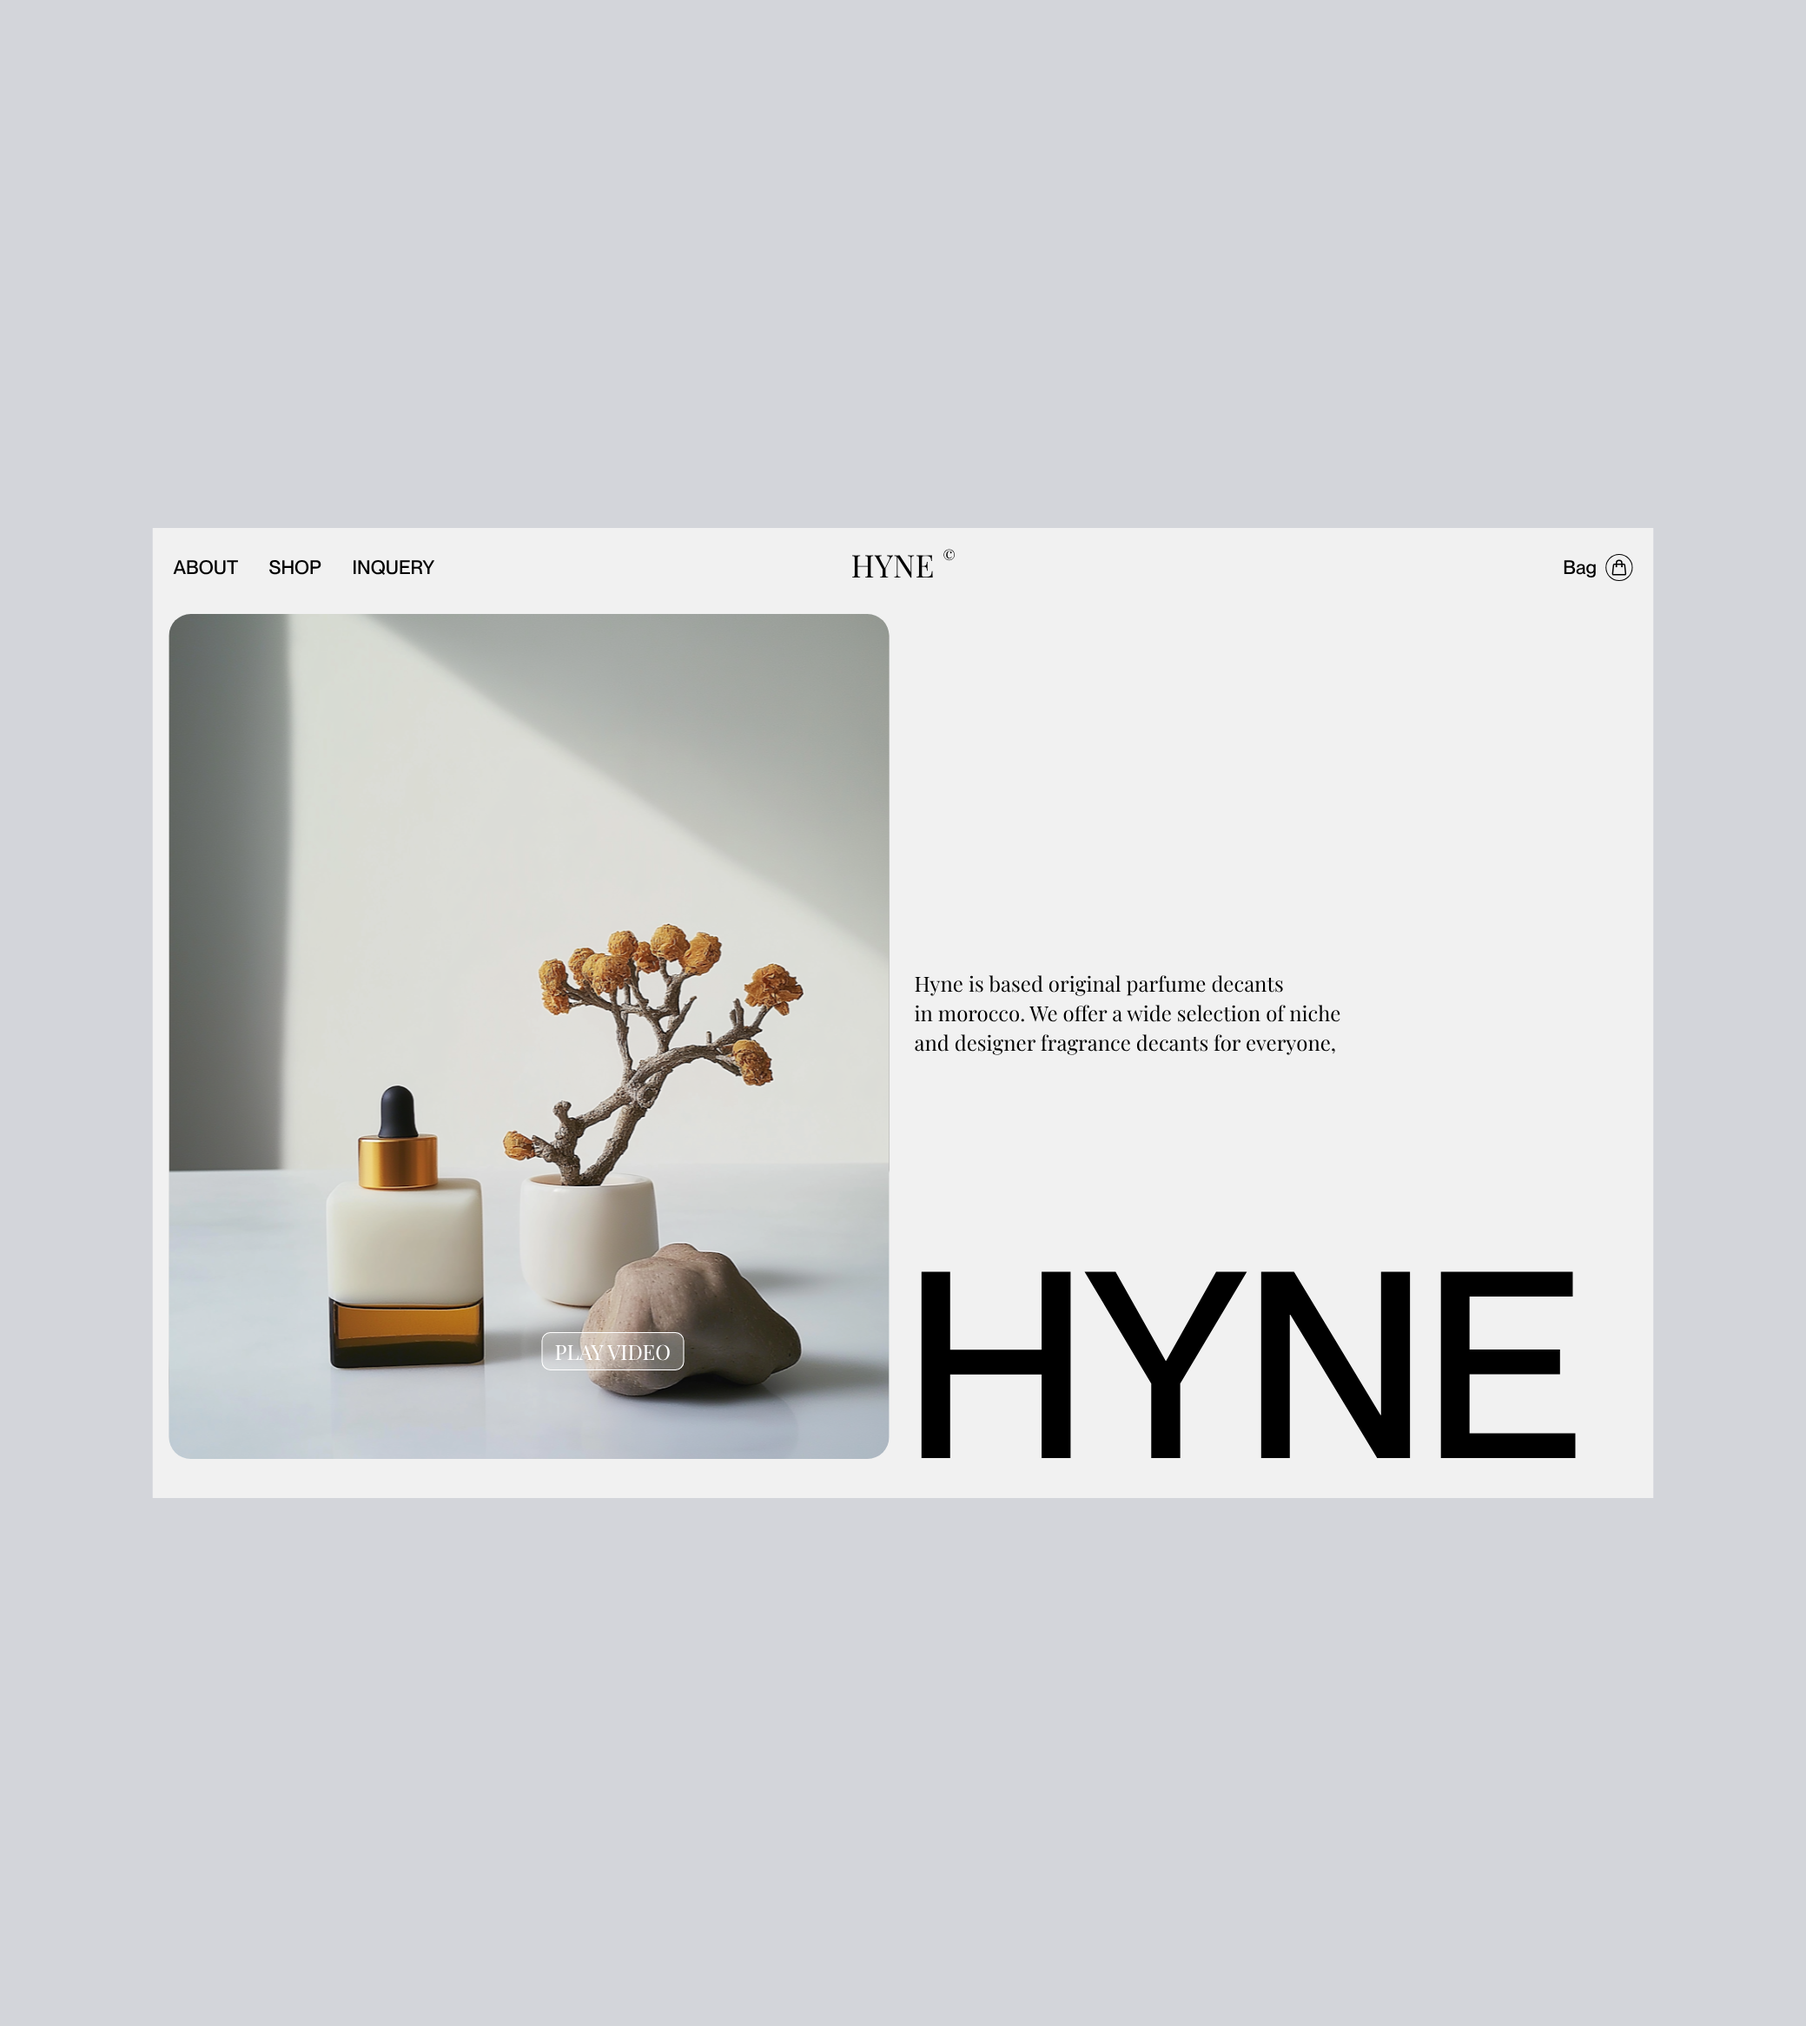
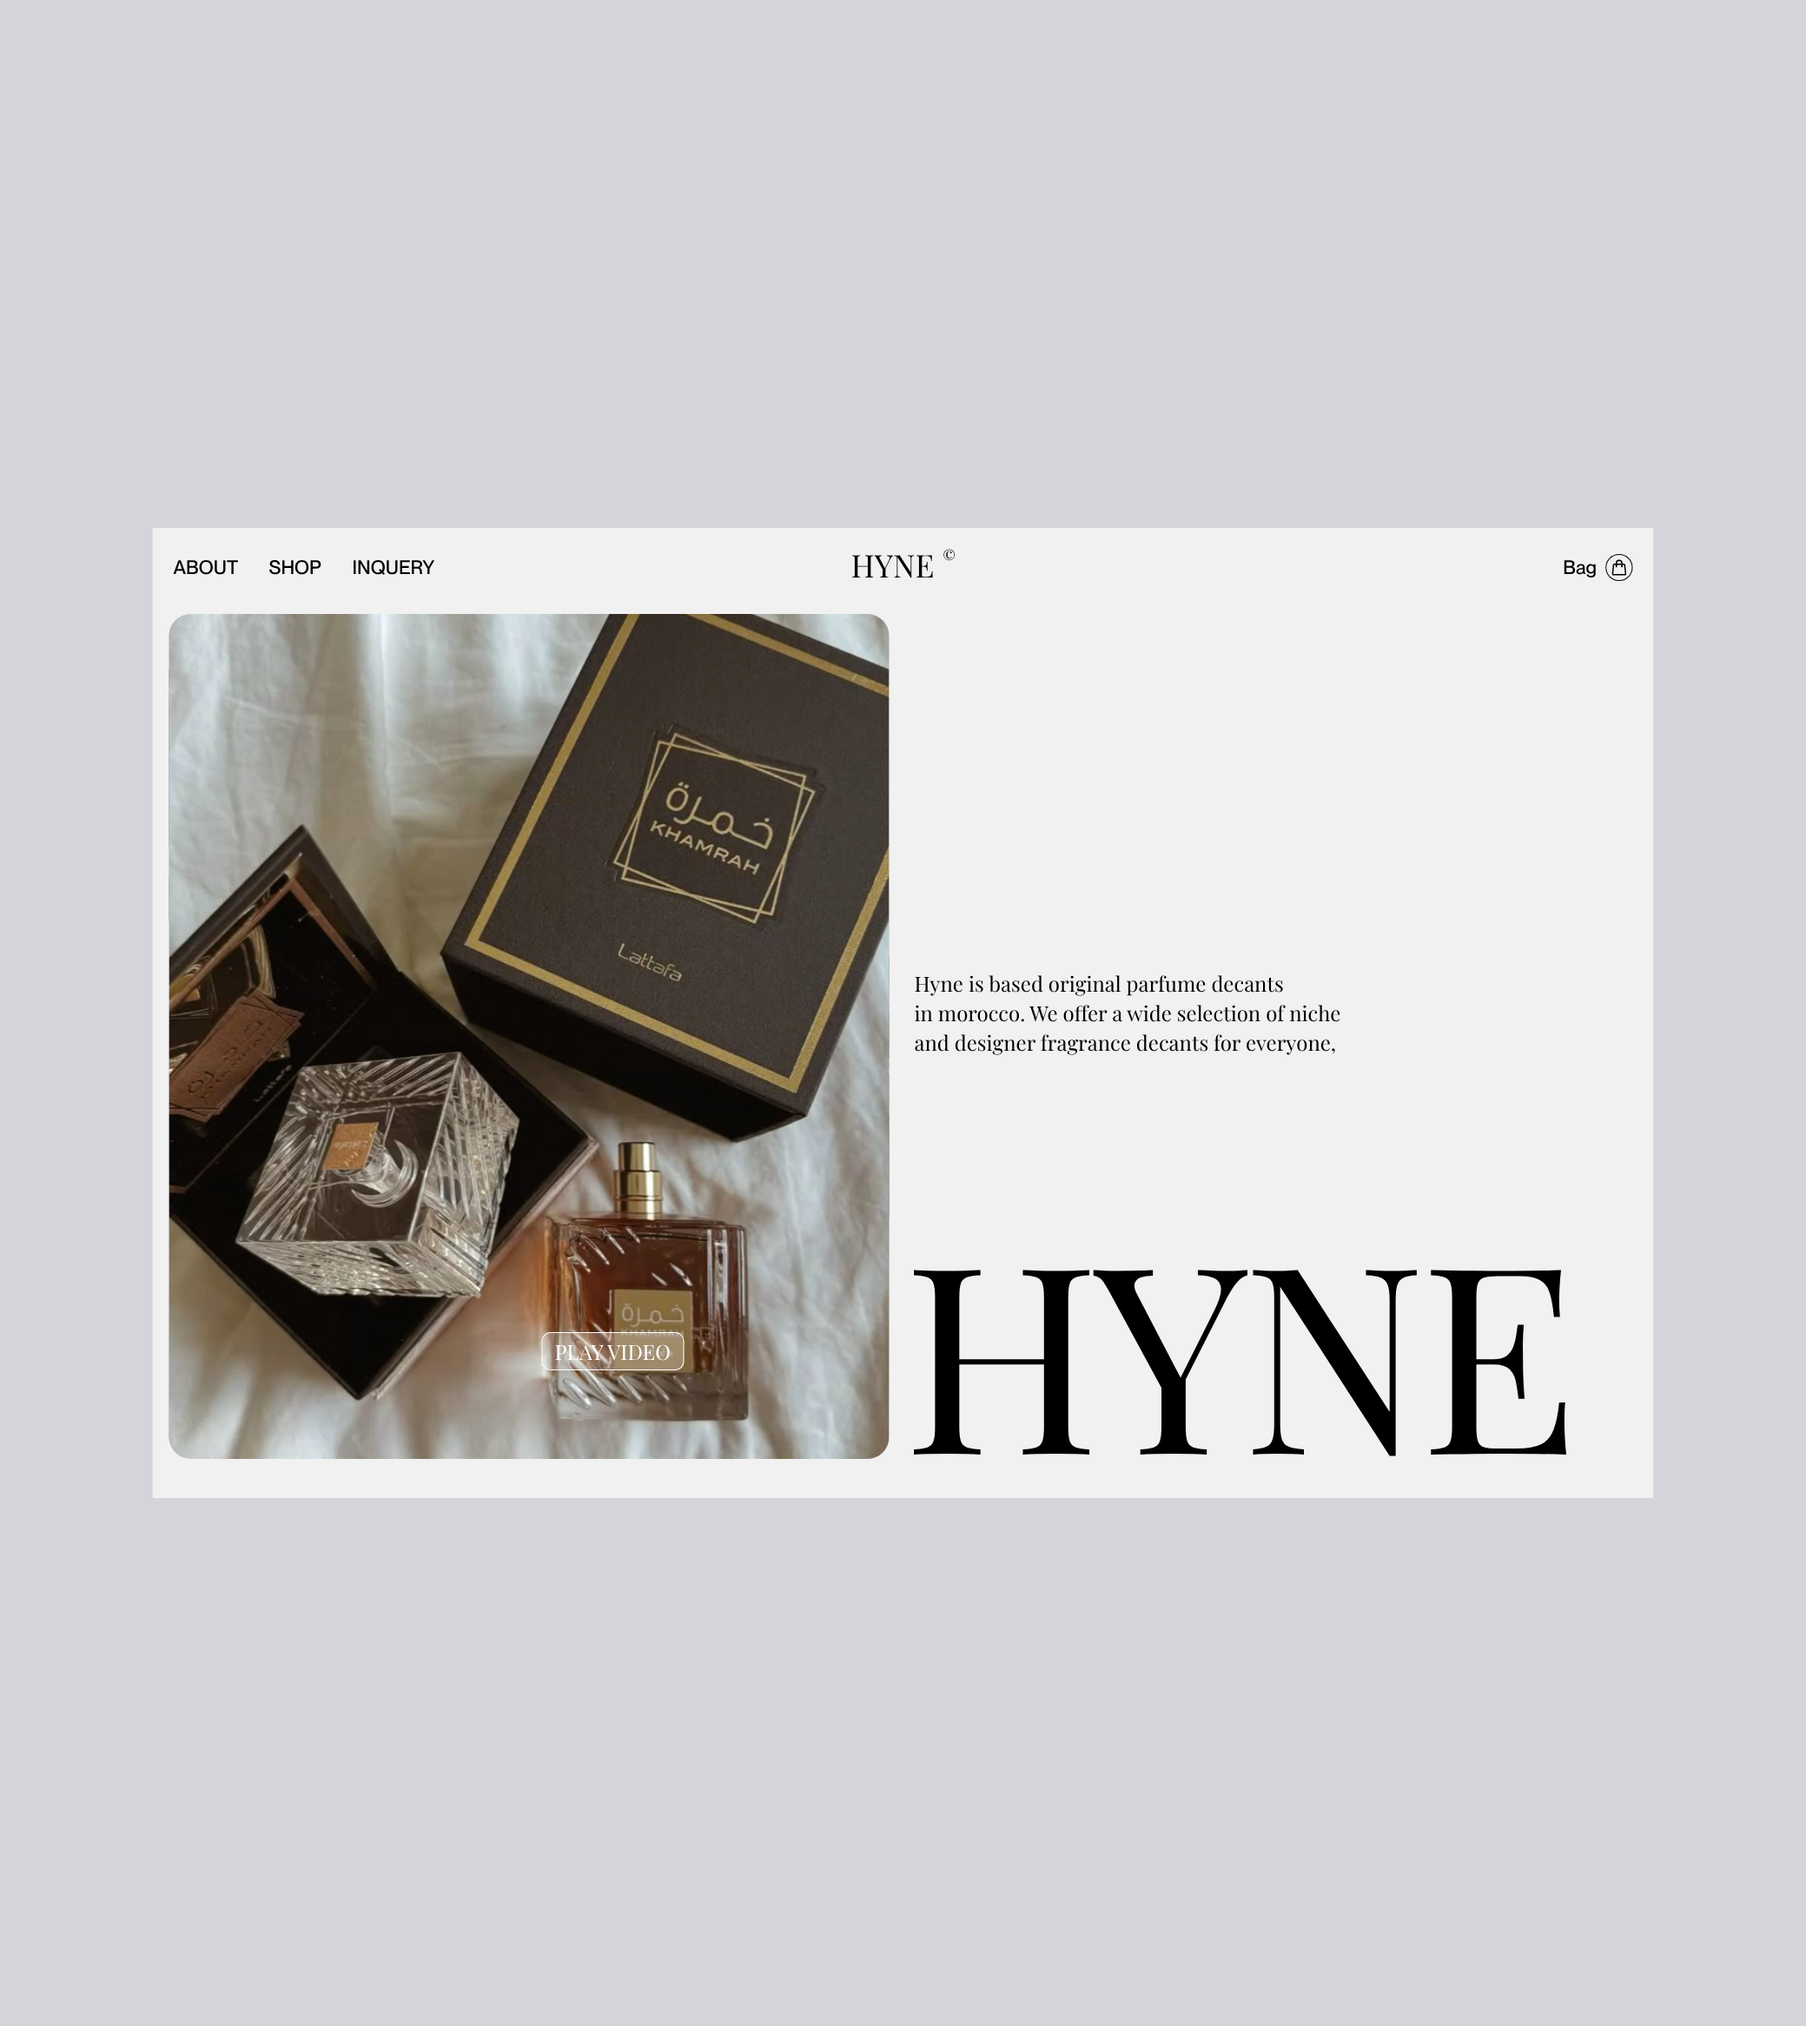
add new project

Changed region(s): [[0.0924, 0.2778, 0.5849, 0.7407], [0.5849, 0.6172, 0.8927, 0.7407]]

diff --git a/components/ProjectCard/ProjectCard.tsx b/components/ProjectCard/ProjectCard.tsx
@@ -3,10 +3,16 @@
 import React, { useState, useEffect } from "react";
 import styles from "./card.module.css";
 import { motion, useMotionValue, useSpring } from "framer-motion";
-import { projects } from "./data";
 import Image from "next/image";
 
-const ProjectCard = () => {
+interface ProjectProps {
+  id: number;
+  title: string;
+  imageUrl: string;
+  projectUrl: string;
+}
+
+const ProjectCard = ({ id, title, imageUrl, projectUrl }: ProjectProps) => {
   // --- 1. MOUSE PHYSICS ---
   const mouseX = useMotionValue(0);
   const mouseY = useMotionValue(0);
@@ -33,33 +39,31 @@ const ProjectCard = () => {
   return (
     <>
       <div className={styles.imageWrapper}>
-        {projects.map((project) => (
-          <a
-            key={project.id}
-            href={project.projectUrl}
-            className={styles.projectLink}
-            // --- 4. TRIGGERS ---
-            onMouseEnter={() => {
-              setIsHovering(true);
-              setActiveProject(project.title); // Sets text for marquee
+        <a
+          key={id}
+          href={projectUrl}
+          className={styles.projectLink}
+          // --- 4. TRIGGERS ---
+          onMouseEnter={() => {
+            setIsHovering(true);
+            setActiveProject(title); // Sets text for marquee
+          }}
+          onMouseLeave={() => {
+            setIsHovering(false);
+            setActiveProject(null);
+          }}
+        >
+          <Image
+            className={styles.projectImage}
+            src={imageUrl}
+            alt={title}
+            fill
+            style={{
+              backgroundSize: "cover",
+              backgroundPosition: "center",
             }}
-            onMouseLeave={() => {
-              setIsHovering(false);
-              setActiveProject(null);
-            }}
-          >
-            <Image
-              className={styles.projectImage}
-              src={project.imageUrl}
-              alt={project.title}
-              fill
-              style={{
-                backgroundSize: "cover",
-                backgroundPosition: "center",
-              }}
-            />
-          </a>
-        ))}
+          />
+        </a>
       </div>
 
       {/* --- 5. THE CURSOR --- */}
@@ -84,14 +88,20 @@ const ProjectCard = () => {
             <motion.div
               className={styles.track}
               animate={{ x: ["0%", "-50%"] }}
-              transition={{ repeat: Infinity, ease: "linear", duration: 5 }}
+              transition={{ repeat: Infinity, ease: "linear", duration: 25 }}
             >
               {/* Duplicate text to create seamless loop */}
               <span>
-                {activeProject} — {activeProject} —{" "}
+                {activeProject} — {activeProject} — {activeProject} —{" "}
+                {activeProject} — {activeProject} — {activeProject} —{" "}
+                {activeProject} — {activeProject} — {activeProject} —{" "}
+                {activeProject} — {activeProject} — {activeProject} —{" "}
               </span>
               <span>
-                {activeProject} — {activeProject} —{" "}
+                {activeProject} — {activeProject} — {activeProject} —{" "}
+                {activeProject} — {activeProject} — {activeProject} —{" "}
+                {activeProject} — {activeProject} — {activeProject} —{" "}
+                {activeProject} — {activeProject} — {activeProject} —{" "}
               </span>
             </motion.div>
           </div>

diff --git a/app/work/page.tsx b/app/work/page.tsx
@@ -4,6 +4,7 @@ import React, { useState, useEffect } from "react";
 import ProjectCard from "@/components/ProjectCard/ProjectCard";
 import styles from "./page.module.css";
 import { motion } from "framer-motion";
+import { projects } from "./data";
 
 // --- NEW COMPONENT: Scrambles text when it enters the viewport ---
 const ScrambleText = ({
@@ -114,7 +115,9 @@ const Work = () => {
 
         {/* Project Grid */}
         <section className={styles.projectGrid}>
-          <ProjectCard />
+          {projects.map((item, index) => (
+            <ProjectCard key={index} {...item} />
+          ))}
         </section>
       </section>
     </main>

diff --git a/components/ProjectCard/card.module.css b/components/ProjectCard/card.module.css
@@ -1,6 +1,6 @@
 .imageWrapper {
   width: 100%;
-  min-height: 90vh;
+  min-height: 92vh;
 
   display: flex;
   flex-direction: column;
@@ -42,9 +42,9 @@
   width: 100px;
 
   height: 30px;
-  /* background-color: #a6ff00; */
-  background-color: #121212;
-  border-radius: 1rem;
+  background-color: #a6ff00;
+  /* background-color: #121212; */
+  border-radius: 0.5rem;
   pointer-events: none;
   z-index: 9999;
   display: flex;
@@ -74,7 +74,7 @@
   font-size: 0.8rem;
   font-weight: 600;
   text-transform: uppercase;
-  color: #f1f1f1;
+  color: #121212;
   font-family: sans-serif;
 }
 

diff --git a/app/work/data.ts b/app/work/data.ts
@@ -12,4 +12,10 @@ export const projects: Project[] = [
     imageUrl: "/assets/projects/hyne.webp",
     projectUrl: "/work/hyne",
   },
+  {
+    id: 2,
+    title: "2024 Portfolio",
+    imageUrl: "/assets/projects/portfolio.webp",
+    projectUrl: "/work/portfolio-2024",
+  },
 ];

diff --git a/app/work/page.module.css b/app/work/page.module.css
@@ -64,7 +64,7 @@
 /*  */
 .projectGrid {
   display: grid;
-  grid-template-columns: repeat(2, 1fr);
-  gap: 2rem;
+  grid-template-columns: repeat(2, minmax(0, 1fr));
+  gap: 2.5rem;
   padding: 0 3rem;
 }
